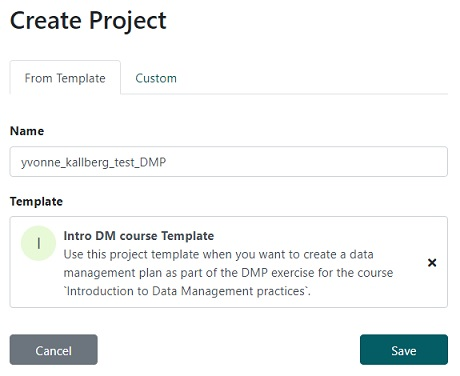
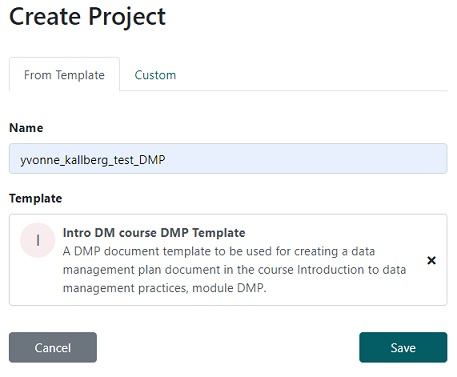
Update in preparation for spring 2022
Due to updates of DSW as well as knowledge model, the exercise needed an update before next round of the course

diff --git a/_episodes/02-exercise-part1.md b/_episodes/02-exercise-part1.md
@@ -22,13 +22,13 @@ Follow the instructions below in order to get started
 
 ![projects](../fig/projects.jpg)
 
-* Click on `Create` in top right corner, name the project `<your_name>_test_DMP`, select template named `Intro DM course Template` and click on `Save`
+* Click on `Create` in top right corner, name the project `<your_name>_test_DMP`, select template named `Intro DM course DMP Template` and click on `Save`
 
 ![create_project](../fig/create_project.jpg)
 
 > ## Note
 >
-> * For the purpose of this learning module, a special project template has been created, in order to better demonstrate tool. It is not suitable for creating a real data management plan. We recommend using a template called Vetenskapsrådet DMP Template, when writing a full DMP.
+> * For the purpose of this learning module, a special project template has been created, in order to better demonstrate tool. In this template, some of the questions are already answered. If you instead want to write a full DMP, we recommend using a template called Vetenskapsrådet DMP Template.
 > 
 > * We will (eventually) delete all projects using this course-specific knowledge model.
 > 
@@ -44,49 +44,23 @@ Follow the instructions below in order to get started
  
     * When using `Add` button you might need scroll up in order to get to the first field to be filled.
     
-* The DSW provides a filtering feature that allows you to see questions relevant only to a particular phase of a research project. 
 
-    * Make sure the phase `Before Submitting the Proposal` is selected. 
-    * Answer the questions in red (these are the questions that should be answered during the selected phase, questions which belong to other phases are in black).
-
-You are now ready to answer the questions using the provided scenario below.
+You are now ready to answer the questions using the provided scenario below. Answer the questions in red (these are the questions that should be answered during the selected phase, questions which belong to other phases are in black, and questions already answered are in green).
 
 > ## Scenario
 >
 > **SARS-CoV-2 genomic surveillance in Italy**
 >
-> Principal investigator Sam Smith (sam.smith@example.com) at Uppsala University 
-> and [you; as a researcher and contact person], wish to do RNA sequencing of 
-> nasopharyngeal swab samples taken at a hospital in Italy as part of genomic 
-> surveillance of severe acute respiratory syndrome coronavirus 2 (SARS-CoV-2). 
-> Dr Smith has applied for funding at Vetenskapsrådet. The project 
-> is planned to start 2021-10-30 and continue until 2022-05-31. [you] will attend 
-> the course ‘Introduction to data management practices’ given by NBIS in order to 
-> ensure the data management quality.
+> Principal investigator Sam Smith (sam.smith@example.com) at Uppsala University and [you; as a researcher and contact person], wish to do RNA sequencing of nasopharyngeal swab samples taken at a hospital in Italy as part of genomic surveillance of severe acute respiratory syndrome coronavirus 2 (SARS-CoV-2). 
+> Dr Smith has applied for funding at Vetenskapsrådet. The project is planned to start a month from now and continue for seven months. [you] will attend the course ‘Introduction to data management practices’ given by NBIS in order to ensure the data management quality.
 > 
-> The RNA sequencing will be done at the national sequencing facility NGI on Illumina
-> NextSeq 500, a well described and known instrument. The sequencing will be made on 91 samples, 
-> producing .fastq files with a total size of ~50 GB.  
-> In addition to the sequence datasets, the sequences will be mapped to a reference 
-> genome of SARS-CoV-2 from isolate Wuhan-Hu-1, available at 
-> [https://www.ncbi.nlm.nih.gov/nuccore/NC_045512.2](https://www.ncbi.nlm.nih.gov/nuccore/NC_045512.2)
+> The RNA sequencing will be done at the national sequencing facility NGI on Illumina NextSeq 500, a well described and known next-generation sequencing instrument. The sequencing will be made on 91 samples, producing .fastq files with a total size of ~50 GB. The data format is standard for this type of data, no specific software is required for reading, which enables sharing and long-term preservation. In addition to the sequence datasets, the sequences will be mapped to a reference genome of SARS-CoV-2 from isolate Wuhan-Hu-1, available at [https://www.ncbi.nlm.nih.gov/nuccore/NC_045512.2](https://www.ncbi.nlm.nih.gov/nuccore/NC_045512.2). This is a versioned dataset, of which version 2 will be the one used, even if newer versions are released.
 > 
-> In order to ensure experiment quality, calibrating measurements and repeat samples will 
-> be done. The steps of the analysis will be documented using R Notebooks. The research 
-> team will use the ENA virus pathogen reporting standard checklist 
-> [ERC000033](https://www.ebi.ac.uk/ena/browser/view/ERC000033), which is a minimum metadata 
-> standard developed for submission of virus surveillance and outbreak. In addition, the file 
-> organisation and naming conventions will be documented in a README text file that will be put 
-> in the root folder of the project, and a dictionary of the sample metadata will be created.
+> In order to ensure experiment quality, calibrating measurements and repeat samples will be done. The steps of the sample collecting will be documented using the university electronic lab notebook system. The research team will use the ENA virus pathogen reporting standard checklist [ERC000033](https://www.ebi.ac.uk/ena/browser/view/ERC000033), which is a minimum metadata standard developed for submission of virus surveillance and outbreak. In addition, the file organisation and naming conventions will be documented in a README text file that will be put in the root folder of the project, and a dictionary of the sample metadata will be created.
 > 
-> The analysis will be done by the research group at the SNIC center Uppmax, for which 
-> a project will be applied for. 
+> The analysis will be done by the research group at the SNIC center Uppmax, for which a project will be applied for. 
 > 
-> This project adheres to Open Science and FAIR principles, so the sequencing datasets 
-> will be published in European Nucleotide Archive (ENA) at the time of arrival, and will 
-> be put under an embargo for one year until the analysis has been done and a paper has 
-> been submitted to a publisher. This way the datasets will be backed-up at a remote 
-> location, separate from the Uppmax account.
+> This project adheres to Open Science and FAIR principles, so the sequencing datasets will be published in European Nucleotide Archive (ENA) at the time of arrival, and will be put under an embargo for one year until the analysis has been done and a paper has been submitted to a publisher. This way the datasets will be backed-up at a remote location, separate from the Uppmax account. The dataset will receive a persistent identifier and be available under a Creative Commons Zero license.
 {: .solution}
 
 > ## Note
@@ -116,7 +90,7 @@ You are now ready to answer the questions using the provided scenario below.
 > ## Solution
 > 
 > Please find a pre-filled DMP here: 
-> [https://dsw.scilifelab.se/projects/07d3fb1c-5941-4ac4-98c2-39409573bbb0](https://dsw.scilifelab.se/projects/07d3fb1c-5941-4ac4-98c2-39409573bbb0)
+> [https://dsw.scilifelab.se/projects/9e96f8a0-9422-449a-bf72-81dea7a9cd9d](https://dsw.scilifelab.se/projects/9e96f8a0-9422-449a-bf72-81dea7a9cd9d)
 {: .solution}
 
 {% include links.md %}
